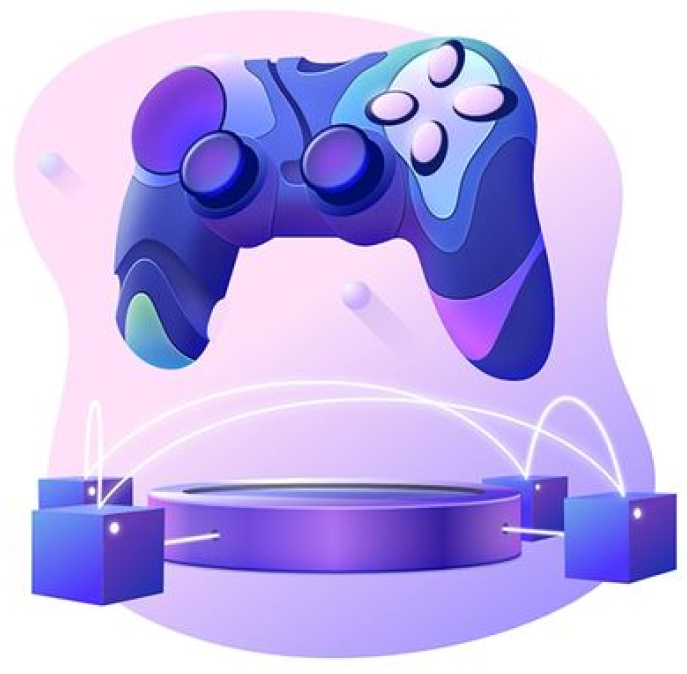
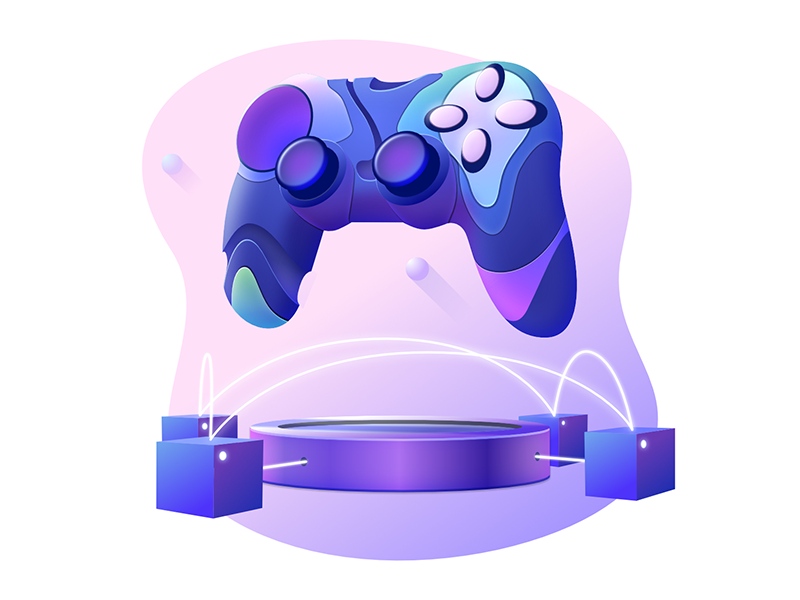
Cambios de css e imágenes
Pocos cambios para que se vea mejor

diff --git a/index.html b/index.html
@@ -51,9 +51,9 @@
         <section class="news-main">
             <div id="card">
                <div>
-                <h3>El profesor Layton y el Nuevo Mundo a vapor</h3>
+                <h3>Nuevo juego del profesor Layton</h3>
                </div> 
-                <img src="media/portada-EPL.jpg" alt="Portada Del juego El profesor Layton y el Nuevo Mundo a vapor">
+                <img src="media/portada-EPL-C.jpg" alt="Portada Del juego El profesor Layton y el Nuevo Mundo a vapor">
                 <div id="btnContainer">
                     <div id="btnIraver">
                         <a href="https://www.nintendo.com/es-es/Juegos/Juegos-de-Nintendo-Switch/El-profesor-Layton-y-el-Nuevo-Mundo-a-vapor-2339757.html"> Ir a ver </a>  
@@ -65,7 +65,7 @@
                 <div>
                     <h3> GAME AWARDS </h3>
                 </div>
-                <img src="media/GameAwards.jpg" alt=" Poster Game Awards ">
+                <img src="media/GameAwardsC.jpg" alt=" Poster Game Awards ">
                 <div id="btnContainer">
                     <div id="btnIraver">
                         <a href="https://thegameawards.com/"> Ir a ver </a>  
@@ -77,7 +77,7 @@
                 <div>
                     <h3> Tequila Works se declara Insolvente</h3>
                 </div>
-                <img src="media/TW-logo.jpg" alt=" Logo empresa Tequila Works">
+                <img src="media/TW-C.jpg" alt=" Logo empresa Tequila Works">
                 <div id="btnContainer">
                     <div id="btnIraver">
                         <a href="https://www.lavanguardia.com/tecnologia/videojuegos/20241112/10101878/tequila-works-concurso-acreedores-insolvente.html"> Ir a ver </a>  

diff --git a/news.html b/news.html
@@ -41,19 +41,19 @@
             <!-- Full-width images with number and caption text -->
             <div class="mySlides fade">
                 <div class="numbertext">1 / 3</div>
-                <img src="https://picsum.photos/seed/Bennett/1080/720" />
+                <img src="media/portada-EPL-C.jpg" />
                 <div class="text">El Profesor Layton y el Nuevo Mundo a vapor</div>
             </div>
 
             <div class="mySlides fade">
                 <div class="numbertext">2 / 3</div>
-                <img src="https://picsum.photos/seed/Freminet/1080/720" />
+                <img src="media/GameAwardsC.jpg" />
                 <div class="text">GAME AWARDS</div>
             </div>
 
             <div class="mySlides fade">
                 <div class="numbertext">3 / 3</div>
-                <img src="https://picsum.photos/seed/Neuvillette/1080/720" />
+                <img src="media/TW-C.jpg" />
                 <div class="text">Tequila Works se declara insolvente</div>
             </div>
 

diff --git a/css/style.css b/css/style.css
@@ -150,7 +150,7 @@ h3{
 }
 
 .main_img {
-    padding: 20px;
+    padding: 10px;
     width: 40%;
 }
   
@@ -195,6 +195,9 @@ h3{
     align-items: center;    
     border: 5px solid var(--color4);
     border-radius: 20px;
+    box-shadow: 0px 10px var(--color2);
+    padding-left: 5pt;
+    padding-right: 5pt;
 }
 
 .news-main #card #btnIraver{

diff --git a/css/news_style.css b/css/news_style.css
@@ -200,6 +200,7 @@ img {
     height: auto;
     vertical-align: middle;
     border-radius: 20px;
+    box-shadow: 10px 10px var(--color2);
 }
 
 /* Slideshow container */
